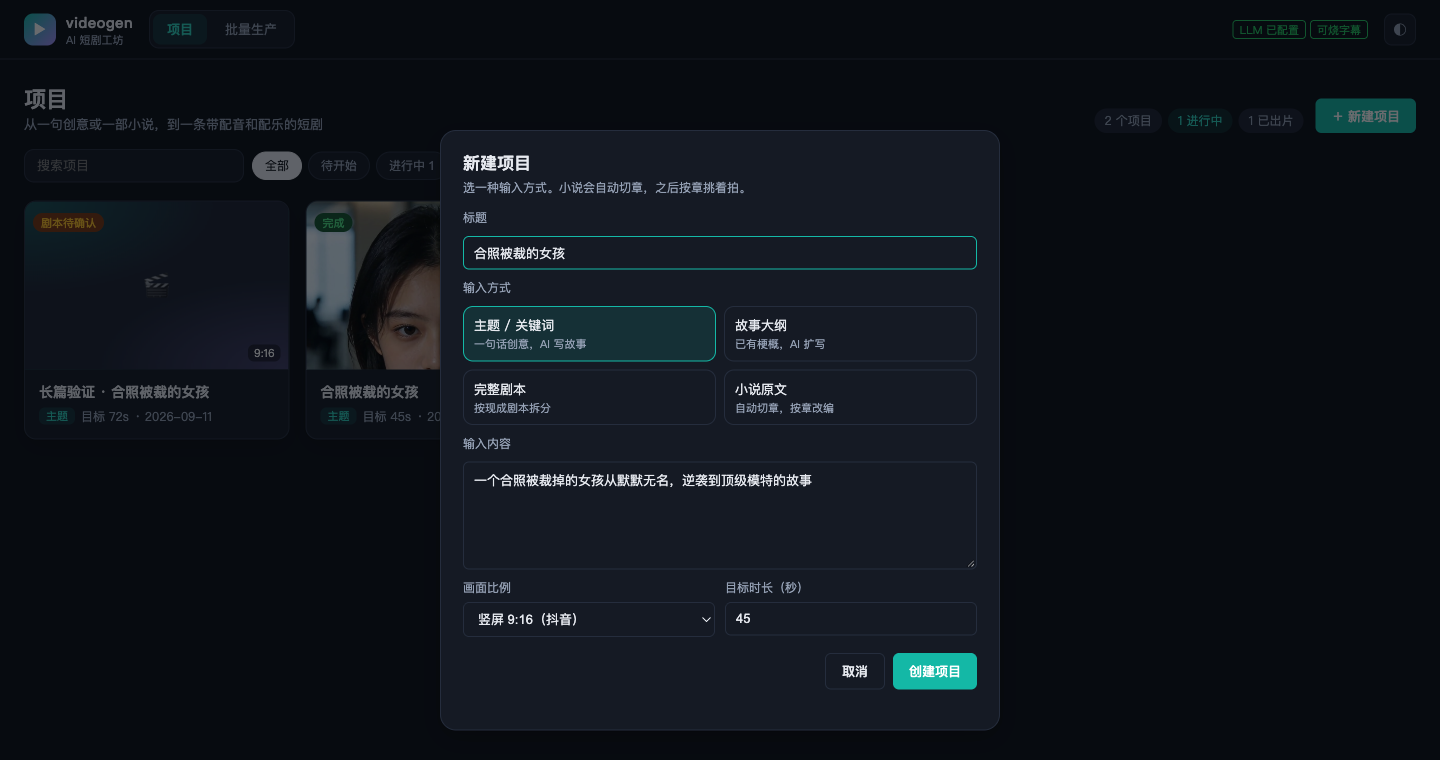
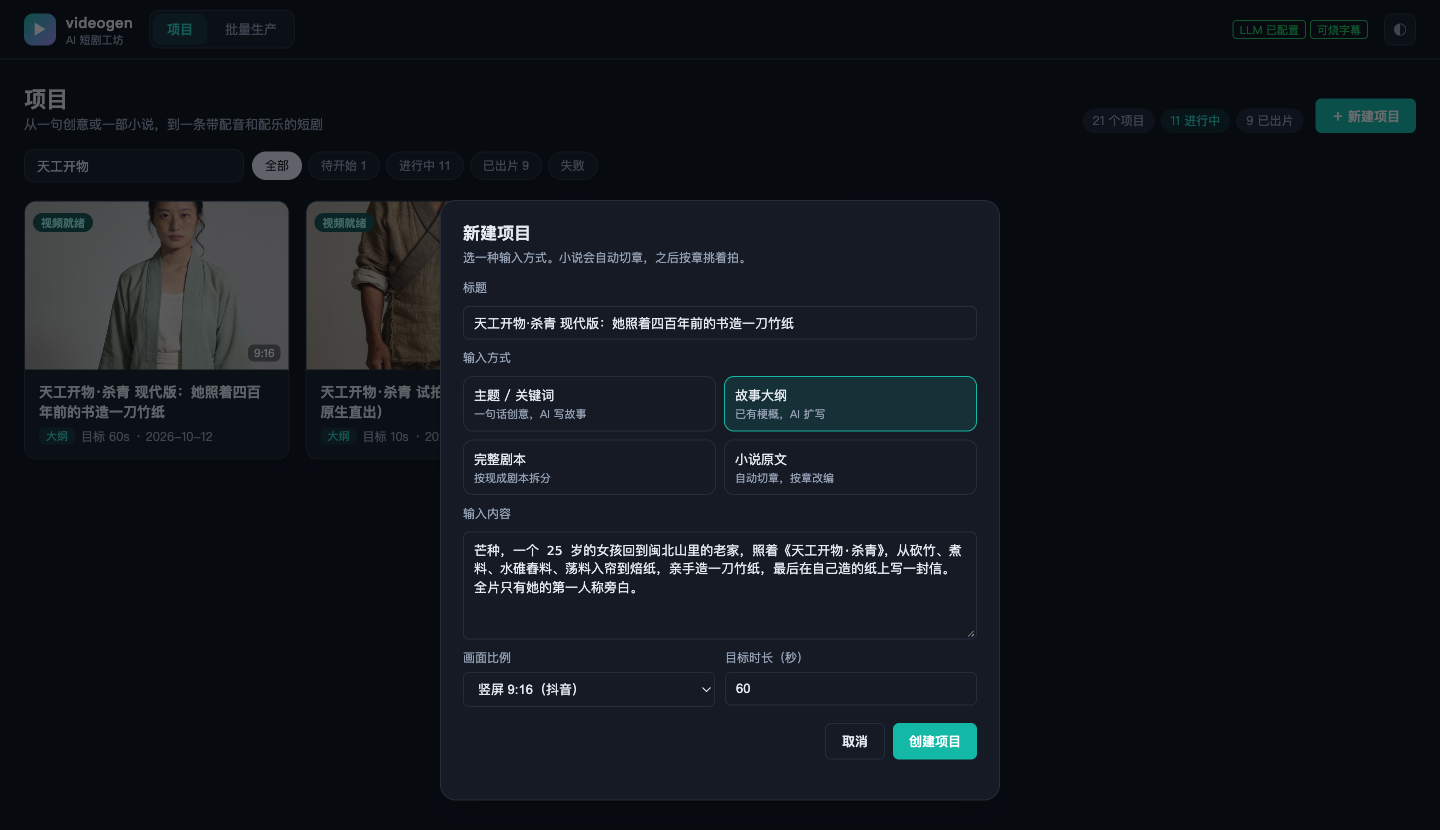
docs: README 截图换成「天工开物·杀青 现代版」（首页 / 新建 / 圣经与资产 / 分镜 / 视频）
剧本与成片两张仍来自「合照被裁的女孩」：杀青项目的分镜是手写的，没走剧本、配音、合成。

diff --git a/README.md b/README.md
@@ -76,10 +76,12 @@ python -m videogen.tools.demo_bgm     # 可选：生成 4 首演示 BGM 到 ./as
 
 ## 使用 Web 工作台
 
-启动后打开 `http://127.0.0.1:8001`。下面的截图来自一个真实跑完的项目「合照被裁的女孩」：
-45 秒、15 个镜头，视频用 MiniMax H3（OpenRouter）生成，角色定妆照由 seedream 按文字设定生成，
-配音为云端 TTS，配乐为本机按分镜作曲。最终 15 个片段的视频计费约 $10.27（账本累计约 $24，含多轮实验与重跑）。
-故事与人物均为虚构。
+启动后打开 `http://127.0.0.1:8001`。下面的截图大多来自真实项目「天工开物·杀青 现代版」：
+一位年轻女孩照着《天工开物·杀青》亲手造竹纸，60 秒、18 个镜头编成 6 段，视频用 MiniMax H3（OpenRouter）生成，
+旁白由 H3 原生直出（`VIDEO_PROMPT_NARRATION`）。定妆照、场景图、道具图由 seedream 按文字设定生成。
+视频计费 $7.80，图片 $0.48。设计与试拍过程见 [docs/source_material/tiangong_shaqing.md](docs/source_material/tiangong_shaqing.md)。
+这个项目的分镜是手写的，没走剧本、配音、合成这几步，所以「剧本」和「成片」两张截图来自另一个完整跑通的项目「合照被裁的女孩」
+（45 秒、15 个镜头，云端 TTS 配音，本机按分镜作曲）。人物均为虚构。
 
 ### 1. 新建项目
 
@@ -112,13 +114,13 @@ python -m videogen.tools.demo_bgm     # 可选：生成 4 首演示 BGM 到 ./as
 
 ![剧本与章节](docs/screenshots/04-script.png)
 
-<sub>（这张截图是同一故事的长篇版本：20 章骨架，已展开 2 章。）</sub>
+<sub>（这张截图来自「合照被裁的女孩」的长篇版本：20 章骨架，已展开 2 章。）</sub>
 
 ### 4. 分镜
 
 「生成分镜」后，每个镜头标出景别运镜、时长、出镜角色、台词和英文视频 prompt，可以逐镜编辑；
 顶部会给出整片的计费估算。开启段落分镜（默认）时，镜头还会按段落分组显示：同一段的镜头在一次视频生成里完成、
-段内硬切（截图里的项目生成于段落分镜上线之前，所以是逐镜显示）。确认后进入视频阶段：
+段内硬切（截图里 18 个镜头编成 6 段，每段 10 秒、3 镜）。确认后进入视频阶段：
 
 ![分镜](docs/screenshots/05-storyboard.png)
 
@@ -132,7 +134,7 @@ python -m videogen.tools.demo_bgm     # 可选：生成 4 首演示 BGM 到 ./as
 ### 6. 配音、配乐与成片
 
 「配音」阶段选择音色和配音文案模式后生成配音；「成片与配乐」阶段生成配乐、调整字幕和响度选项，
-然后合成。成片可以在页面里带字幕预览，并下载 MP4 和字幕文件：
+然后合成。成片可以在页面里带字幕预览，并下载 MP4 和字幕文件（这张截图来自「合照被裁的女孩」）：
 
 ![成片](docs/screenshots/07-compose.jpg)
 
